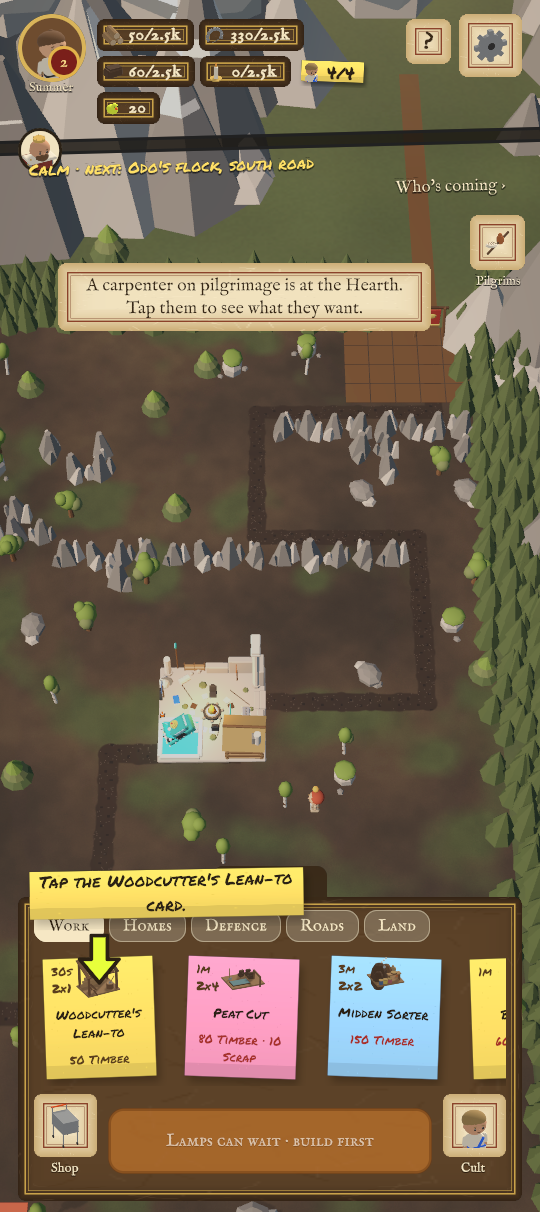
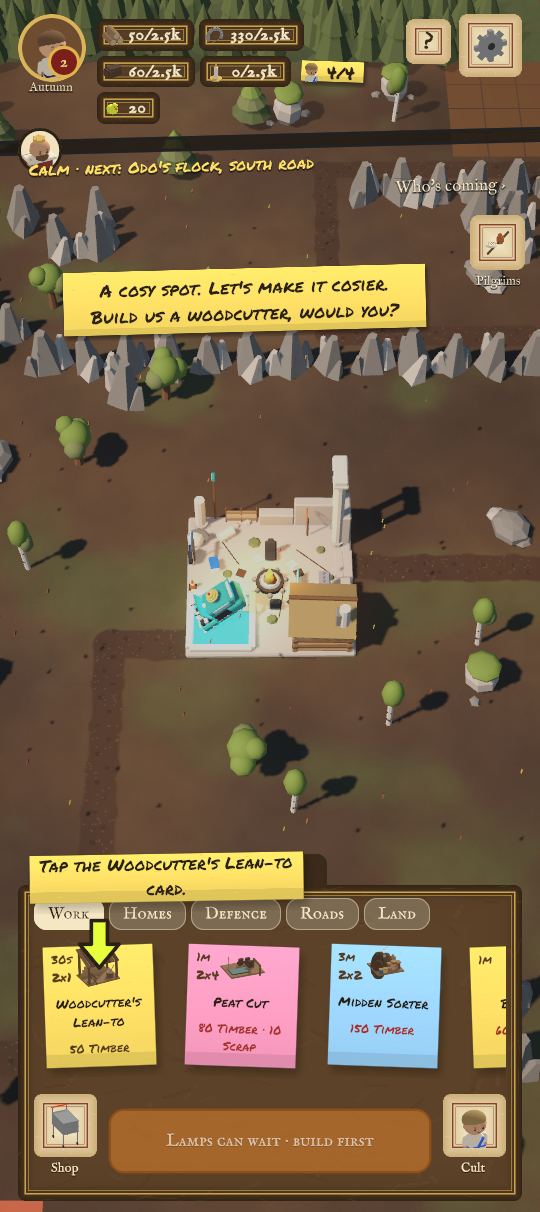
Fun first F3, frame the village, not the field: by day the camera frames the Hearth and what's built, two tiles round them, at least 12 × 10 and never past the open land, and grows with the village (playtest 2026-11-17: the village was a speck in an empty field)

diff --git a/client/CultOfComfort.Unity/Assets/Scripts/Views/VillageFraming.cs b/client/CultOfComfort.Unity/Assets/Scripts/Views/VillageFraming.cs
@@ -34,6 +34,41 @@ namespace CultOfComfort.Client
             return (new Vector2(0f, -maxY), new Vector2(maxX, 0f));
         }
 
+        /// <summary>The smallest home view (tiles): a new village isn't framed so tight that there's nowhere to build.</summary>
+        public const int MinWidth = 12;
+        public const int MinHeight = 10;
+
+        /// <summary>
+        /// Frame the village, not the field (spec 2026-11-17 fun first, F3): the Hearth and what's built, two tiles round
+        /// them, at least <see cref="MinWidth"/> × <see cref="MinHeight"/>, never past <see cref="HomeBounds"/>. It grows
+        /// with the village; beyond it, the forest and the fog.
+        /// </summary>
+        /// <param name="built">The tiles of the village's buildings (not roads or nature).</param>
+        public static (Vector2 Min, Vector2 Max) BuiltBounds(VillageMap map, int hearthLevel, System.Collections.Generic.IEnumerable<GridPosition> built)
+        {
+            var (homeMin, homeMax) = HomeBounds(map, hearthLevel);
+            var tiles = map.HearthTiles.Concat(built ?? Enumerable.Empty<GridPosition>()).ToList();
+            float x0 = tiles.Min(t => t.X) - 2, x1 = tiles.Max(t => t.X) + 2;
+            float y0 = tiles.Min(t => t.Y) - 2, y1 = tiles.Max(t => t.Y) + 2;
+            Grow(ref x0, ref x1, MinWidth - 1);
+            Grow(ref y0, ref y1, MinHeight - 1);
+
+            // Grid y runs down the screen; world z = -y (Shapes.ToWorld).
+            var min = new Vector2(Mathf.Max(x0, homeMin.x), Mathf.Max(-y1, homeMin.y));
+            var max = new Vector2(Mathf.Min(x1, homeMax.x), Mathf.Min(-y0, homeMax.y));
+            return (min, max);
+        }
+
+        private static void Grow(ref float lo, ref float hi, float size)
+        {
+            var missing = size - (hi - lo);
+            if (missing > 0f)
+            {
+                lo -= missing / 2f;
+                hi += missing / 2f;
+            }
+        }
+
         /// <summary>The stretch of road in front of the Hearth the Night frames: where the towers stand and the Prophet fights.</summary>
         public const int NightRoadTiles = 10;
 

diff --git a/client/CultOfComfort.Unity/Assets/Tests/EditMode/VillageFramingTests.cs b/client/CultOfComfort.Unity/Assets/Tests/EditMode/VillageFramingTests.cs
@@ -1,4 +1,5 @@
 using CultOfComfort.Simulation.Base;
+using CultOfComfort.Simulation.Grid;
 using NUnit.Framework;
 using UnityEngine;
 
@@ -64,6 +65,46 @@ namespace CultOfComfort.Client.Tests
             // Assert — room to look past the edge, at the forest and the river running on.
             Assert.LessOrEqual(min.y, -(VillageMap.Demo.Height - 1) - 6f);
             Assert.GreaterOrEqual(max.x, VillageMap.Demo.Width - 1 + 6f);
+        }
+
+        [Test]
+        public void BuiltBounds_FreshVillage_ASmallViewRoundTheHearth()
+        {
+            // Arrange — playtest 2026-11-17: by day the camera framed an empty field and the village was a speck (F3).
+            var map = VillageMap.Demo;
+            var (homeMin, homeMax) = VillageFraming.HomeBounds(map, 1);
+
+            // Act
+            var (min, max) = VillageFraming.BuiltBounds(map, 1, new GridPosition[0]);
+
+            // Assert
+            Assert.Less(max.x - min.x, homeMax.x - homeMin.x, "smaller than the open land");
+            Assert.GreaterOrEqual(max.x - min.x, VillageFraming.MinWidth - 1 - 2f, "room to build");
+            foreach (var t in map.HearthTiles)
+            {
+                Assert.That(t.X, Is.InRange(min.x, max.x));
+                Assert.That(-t.Y, Is.InRange(min.y, max.y));
+            }
+        }
+
+        [Test]
+        public void BuiltBounds_ABuildingFarOut_GrowsToTakeItInButNotPastTheOpenLand()
+        {
+            // Arrange
+            var map = VillageMap.Demo;
+            var (homeMin, homeMax) = VillageFraming.HomeBounds(map, 1);
+            var far = new GridPosition((int)homeMax.x - 1, -(int)homeMin.y - 1);
+
+            // Act
+            var (min, max) = VillageFraming.BuiltBounds(map, 1, new[] { far });
+
+            // Assert
+            Assert.That(far.X, Is.InRange(min.x, max.x));
+            Assert.That(-far.Y, Is.InRange(min.y, max.y));
+            Assert.GreaterOrEqual(min.x, homeMin.x);
+            Assert.GreaterOrEqual(min.y, homeMin.y);
+            Assert.LessOrEqual(max.x, homeMax.x);
+            Assert.LessOrEqual(max.y, homeMax.y);
         }
     }
 }

diff --git a/client/CultOfComfort.Unity/Assets/Scripts/GameController.cs b/client/CultOfComfort.Unity/Assets/Scripts/GameController.cs
@@ -3043,10 +3043,17 @@ namespace CultOfComfort.Client
         /// <summary>Captures render at a phone's size without one: the screen the layout and the camera frame for.</summary>
         public Vector2Int? ScreenOverride { get; set; }
 
+        /// <summary>The tiles of what's built: not roads, trees or rocks (they don't make a village bigger).</summary>
+        private IEnumerable<GridPosition> BuiltTiles() =>
+            (_snapshot?.Buildings ?? (IReadOnlyList<BuildingView>)Array.Empty<BuildingView>())
+            .Where(b => !BuildingTable.IsRoad(b.Type) && b.Type != BuildingType.Tree && b.Type != BuildingType.Stone)
+            .SelectMany(b => b.Tiles);
+
         /// <summary>The camera's stage: the raiders' road at Night, the village by day. Framed again on the next frames.</summary>
         private void FrameStage()
         {
-            var (min, max) = _phase == GamePhase.Night ? VillageFraming.NightBounds(VillageMap.Demo, _plan?.Road ?? 0) : VillageFraming.HomeBounds(VillageMap.Demo, _openLevel);
+            var (min, max) = _phase == GamePhase.Night ? VillageFraming.NightBounds(VillageMap.Demo, _plan?.Road ?? 0)
+                : VillageFraming.BuiltBounds(VillageMap.Demo, _openLevel, BuiltTiles()); // the village, not the field (F3)
             _rig.SetBounds(min, max);
             _framePending = 2;
         }
